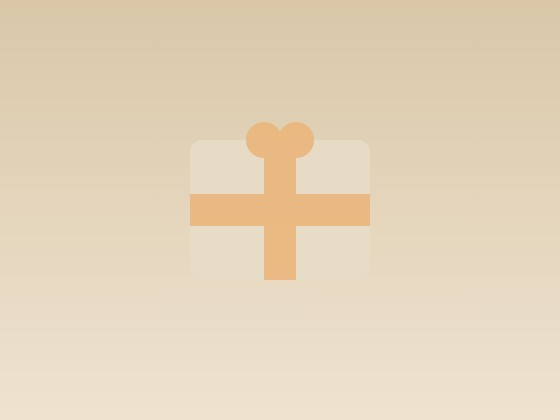
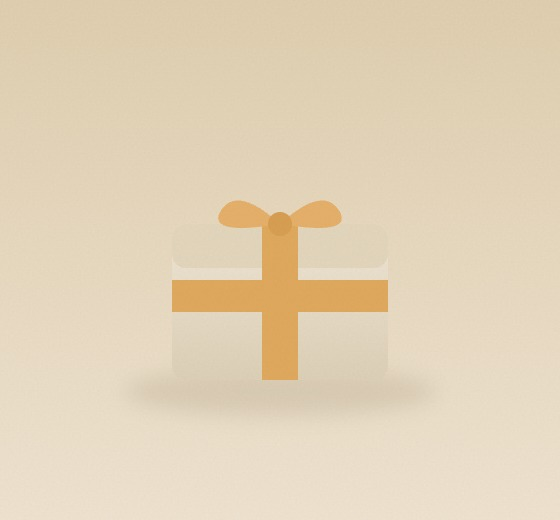
fix: upgrade Cairn imagery to polished illustrations, fix article/column layout, add display=swap

Changed region(s): [[0.3036, 0.2786, 0.6982, 0.7429]]

diff --git a/templates/cairn-wellness/dist/email.html b/templates/cairn-wellness/dist/email.html
@@ -176,8 +176,8 @@
             <tr>
               <td align="center" valign="top" style="font-size:0; text-align:center;">
 
-                <!--[if mso]><table role="presentation" width="100%" cellpadding="0" cellspacing="0" border="0"><tr><td width="50%" valign="top"><![endif]-->
-                <div class="stack-column" style="display:inline-block; width:100%; max-width:295px; vertical-align:top;">
+                <!--[if mso]><table role="presentation" width="100%" cellpadding="0" cellspacing="0" border="0"><tr><td width="50%" valign="top" style="padding-right:5px;"><![endif]-->
+                <div class="stack-column" style="display:inline-block; width:100%; max-width:295px; vertical-align:top; padding-right:6px;">
                   <table role="presentation" width="100%" cellpadding="0" cellspacing="0" border="0" class="darkmode-card" style="background-color:#f6efe7; border-radius:10px;">
                     <tr>
                       <td class="pad-on-narrow" style="padding:30px;">
@@ -195,8 +195,8 @@
                     </tr>
                   </table>
                 </div>
-                <!--[if mso]></td><td width="50%" valign="top"><![endif]-->
-                <div class="stack-column" style="display:inline-block; width:100%; max-width:295px; vertical-align:top;">
+                <!--[if mso]></td><td width="50%" valign="top" style="padding-left:5px;"><![endif]-->
+                <div class="stack-column" style="display:inline-block; width:100%; max-width:295px; vertical-align:top; padding-left:6px;">
                   <table role="presentation" width="100%" cellpadding="0" cellspacing="0" border="0" class="darkmode-card" style="background-color:#f6efe7; border-radius:10px;">
                     <tr>
                       <td class="pad-on-narrow" style="padding:30px;">

diff --git a/templates/cairn-wellness/partials/40-two-columns.html b/templates/cairn-wellness/partials/40-two-columns.html
@@ -6,8 +6,8 @@
             <tr>
               <td align="center" valign="top" style="font-size:0; text-align:center;">
 
-                <!--[if mso]><table role="presentation" width="100%" cellpadding="0" cellspacing="0" border="0"><tr><td width="50%" valign="top"><![endif]-->
-                <div class="stack-column" style="display:inline-block; width:100%; max-width:295px; vertical-align:top;">
+                <!--[if mso]><table role="presentation" width="100%" cellpadding="0" cellspacing="0" border="0"><tr><td width="50%" valign="top" style="padding-right:5px;"><![endif]-->
+                <div class="stack-column" style="display:inline-block; width:100%; max-width:295px; vertical-align:top; padding-right:6px;">
                   <table role="presentation" width="100%" cellpadding="0" cellspacing="0" border="0" class="darkmode-card" style="background-color:#f6efe7; border-radius:10px;">
                     <tr>
                       <td class="pad-on-narrow" style="padding:30px;">
@@ -25,8 +25,8 @@
                     </tr>
                   </table>
                 </div>
-                <!--[if mso]></td><td width="50%" valign="top"><![endif]-->
-                <div class="stack-column" style="display:inline-block; width:100%; max-width:295px; vertical-align:top;">
+                <!--[if mso]></td><td width="50%" valign="top" style="padding-left:5px;"><![endif]-->
+                <div class="stack-column" style="display:inline-block; width:100%; max-width:295px; vertical-align:top; padding-left:6px;">
                   <table role="presentation" width="100%" cellpadding="0" cellspacing="0" border="0" class="darkmode-card" style="background-color:#f6efe7; border-radius:10px;">
                     <tr>
                       <td class="pad-on-narrow" style="padding:30px;">
